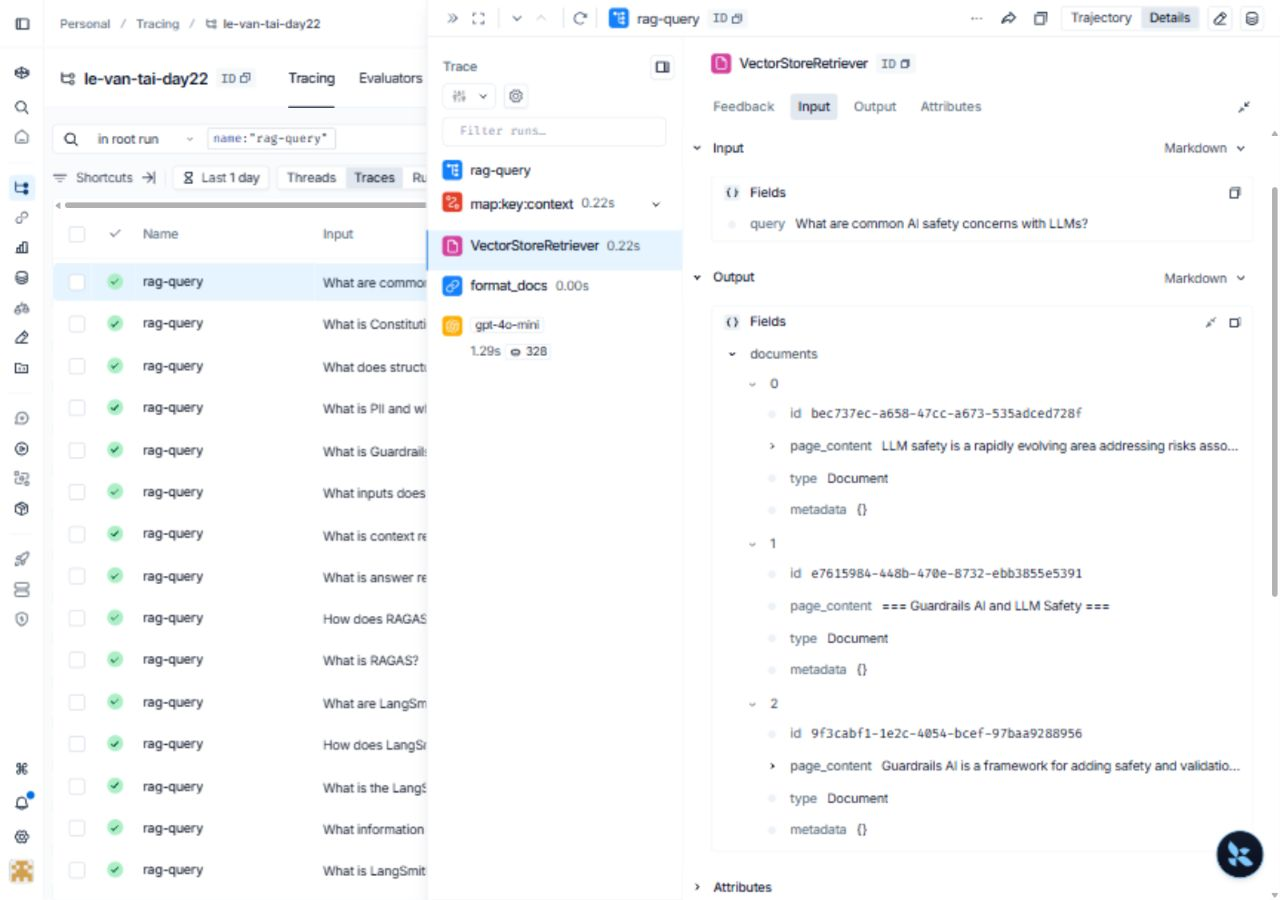
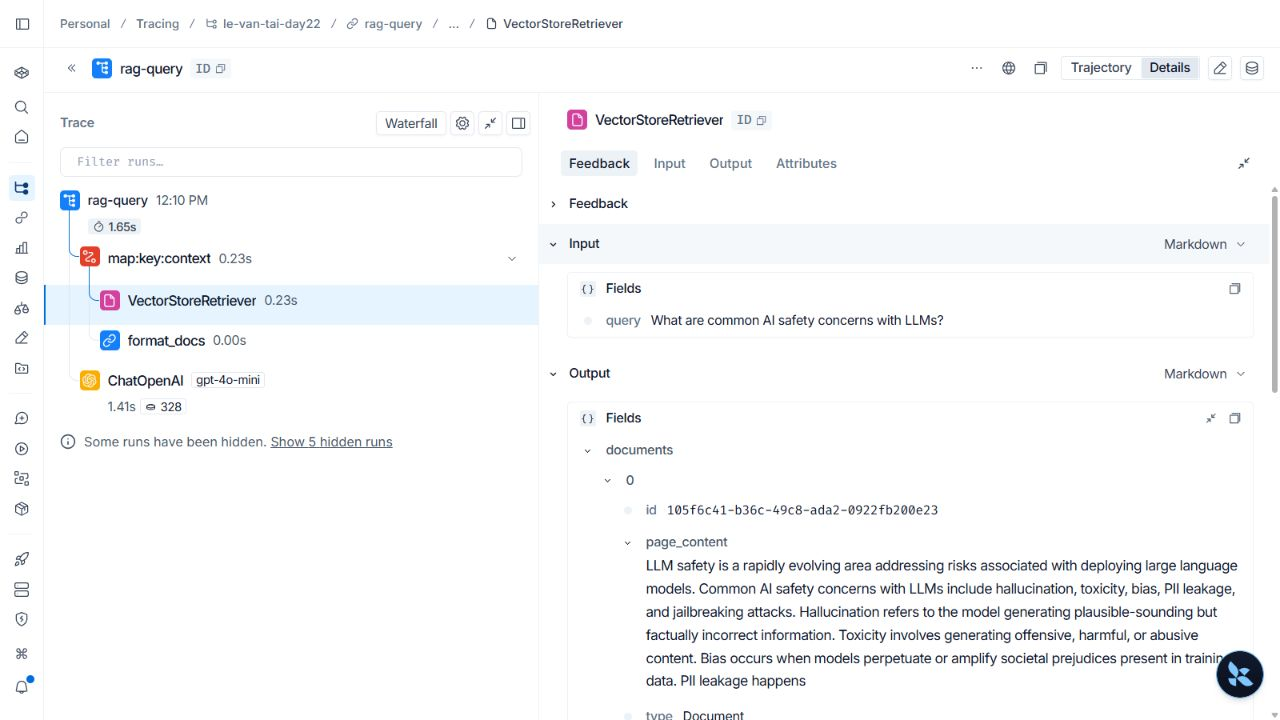
Replace blurry LangSmith evidence screenshots

diff --git a/evidence/README.md b/evidence/README.md
@@ -39,20 +39,19 @@ V1 ưu tiên câu trả lời ngắn nên đạt answer relevancy cao hơn (**0.
 ## Xác minh LangSmith
 
 - Project: `le-van-tai-day22`
-- `rag-query`: **50 traces**
-- `ab-rag-query`: **50 traces**
-- Tổng: **100 traces**
+- Lần xác minh API ban đầu: **50 traces `rag-query`** và **50 traces `ab-rag-query`** (đủ 100 traces theo yêu cầu).
+- Sau khi chạy lại bước RAG, giao diện LangSmith hiện **100 traces `rag-query`**; ảnh mới phản ánh số đếm này.
 - Prompt Hub: `le-van-tai-2a202602464-rag-prompt-v1` và `le-van-tai-2a202602464-rag-prompt-v2` đã push và pull thành công.
 - LangSmith project URL: https://smith.langchain.com/o/8b6ad29b-b395-4e91-8603-5675154851ab/projects/p/b93e897a-3131-45ef-b57d-a977b4681063
-- `01_langsmith_traces.png` là ảnh chụp trực tiếp giao diện project LangSmith với bộ lọc `rag-query` và `Trace Count 50`.
-- `01_langsmith_trace_detail.png` là ảnh chụp một trace thật: câu hỏi nằm trong `Input`, ba tài liệu truy xuất nằm trong `VectorStoreRetriever → Output`.
+- `01_langsmith_traces.png` là ảnh chụp trực tiếp giao diện project LangSmith với bộ lọc `rag-query` và `Trace Count 100`.
+- `01_langsmith_trace_detail.png` là ảnh chụp một trace thật: câu hỏi nằm trong `Input`, đoạn knowledge base truy xuất hiển thị trong `VectorStoreRetriever → Output`.
 - `01_langsmith_trace_shared.png` là ảnh chụp trạng thái `Trace Shared`, xác nhận trace đã tạo public link.
-- `02_prompt_hub.png` là ảnh chụp trực tiếp Prompt Hub, hiển thị cả hai prompt V1 và V2. Ảnh được chuyển định dạng JPEG → PNG mà không sửa nội dung.
+- `02_prompt_hub.png` là ảnh chụp trực tiếp Prompt Hub, hiển thị cả hai prompt V1 và V2. Bốn ảnh giao diện được chụp lại rõ nét và chuyển định dạng JPEG → PNG mà không sửa nội dung.
 - Các ảnh LangSmith cũng được chụp với thanh bên thu gọn để tránh lộ email cá nhân. Quyền truy cập project của tài khoản khác chưa được xác minh.
 
 ## Danh mục bằng chứng
 
-- `01_langsmith_traces.png`: ảnh LangSmith project có 50 trace `rag-query`.
+- `01_langsmith_traces.png`: ảnh LangSmith project có 100 trace `rag-query` sau khi chạy lại.
 - `01_langsmith_trace_detail.png`: ảnh trace mẫu với context truy xuất (bổ sung).
 - `02_prompt_hub.png`: ảnh Prompt Hub có cả hai prompt.
 - `02_ab_routing_log.txt`: log A/B có cả nhãn `prompt-v1` và `prompt-v2`.
